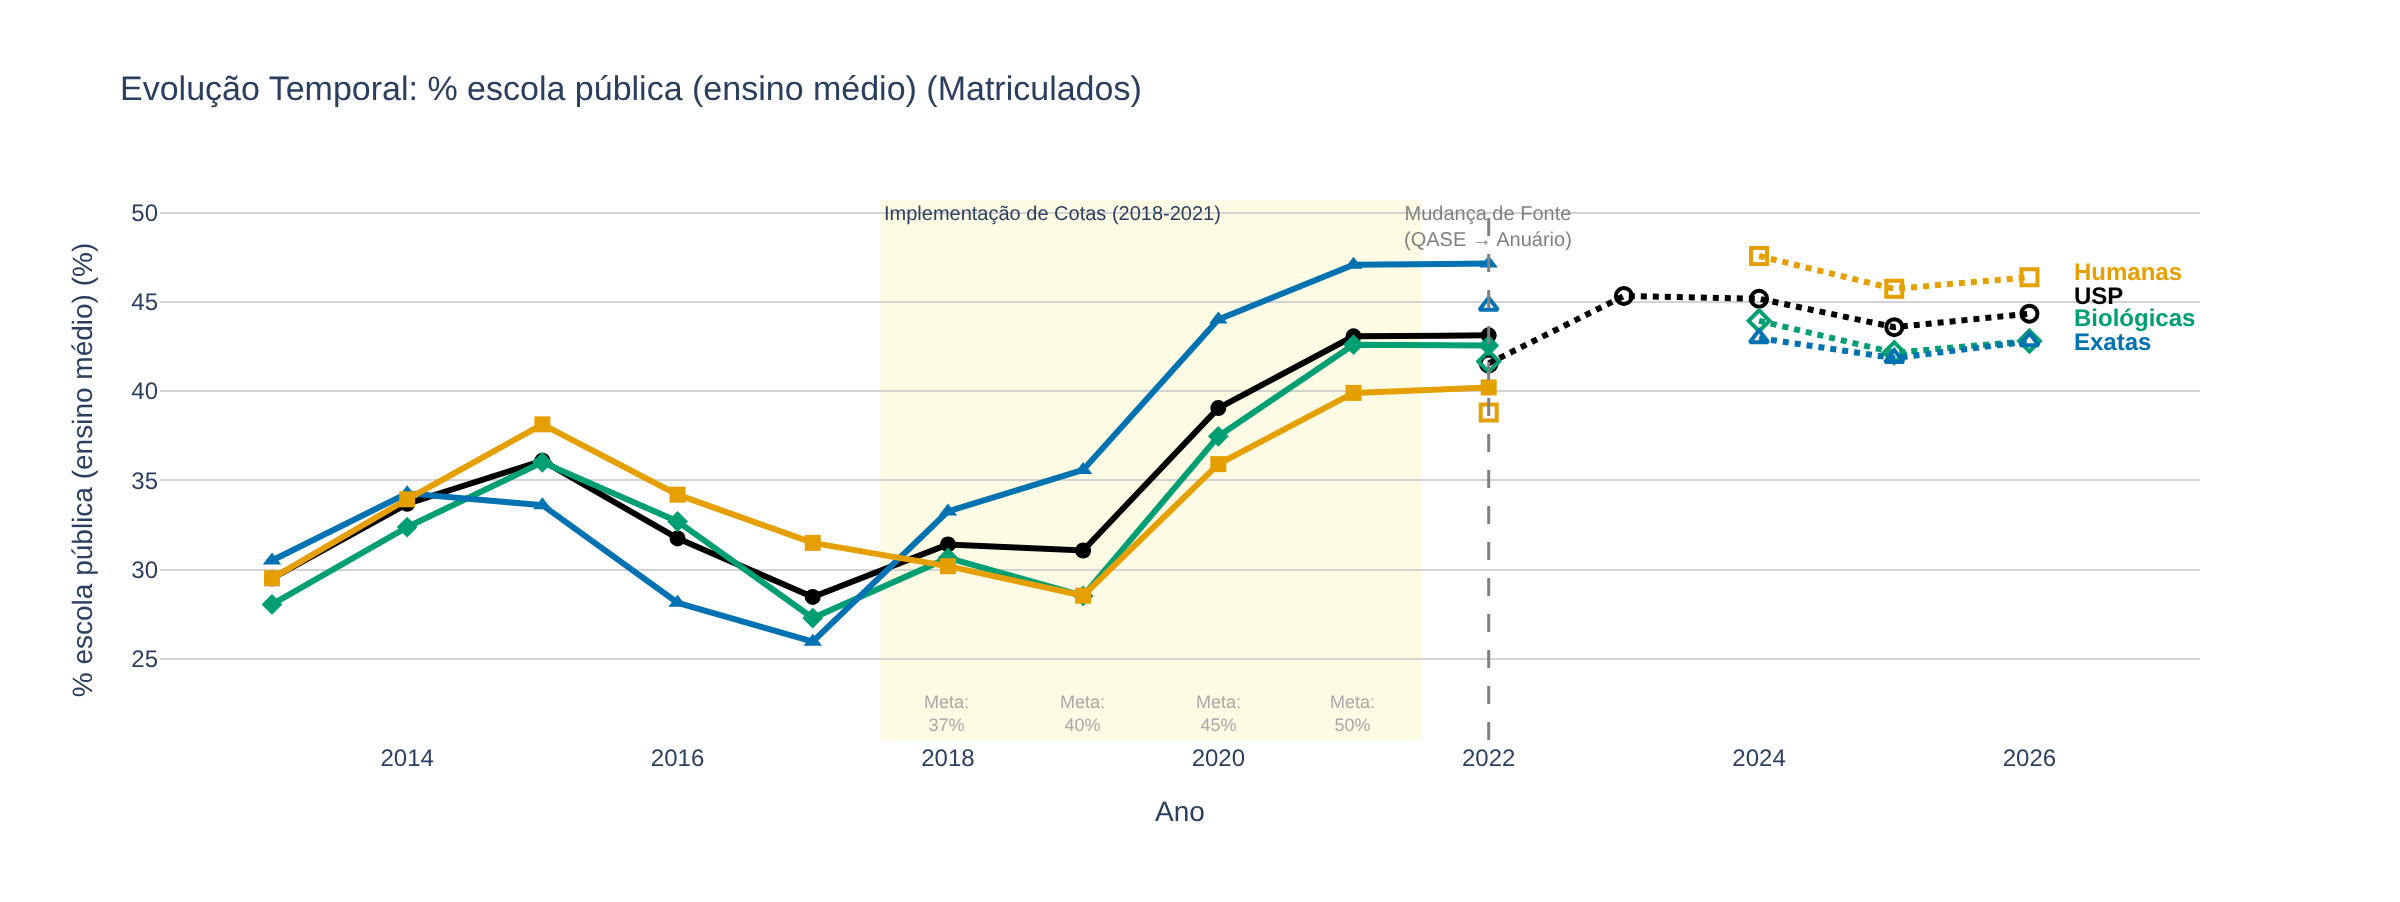
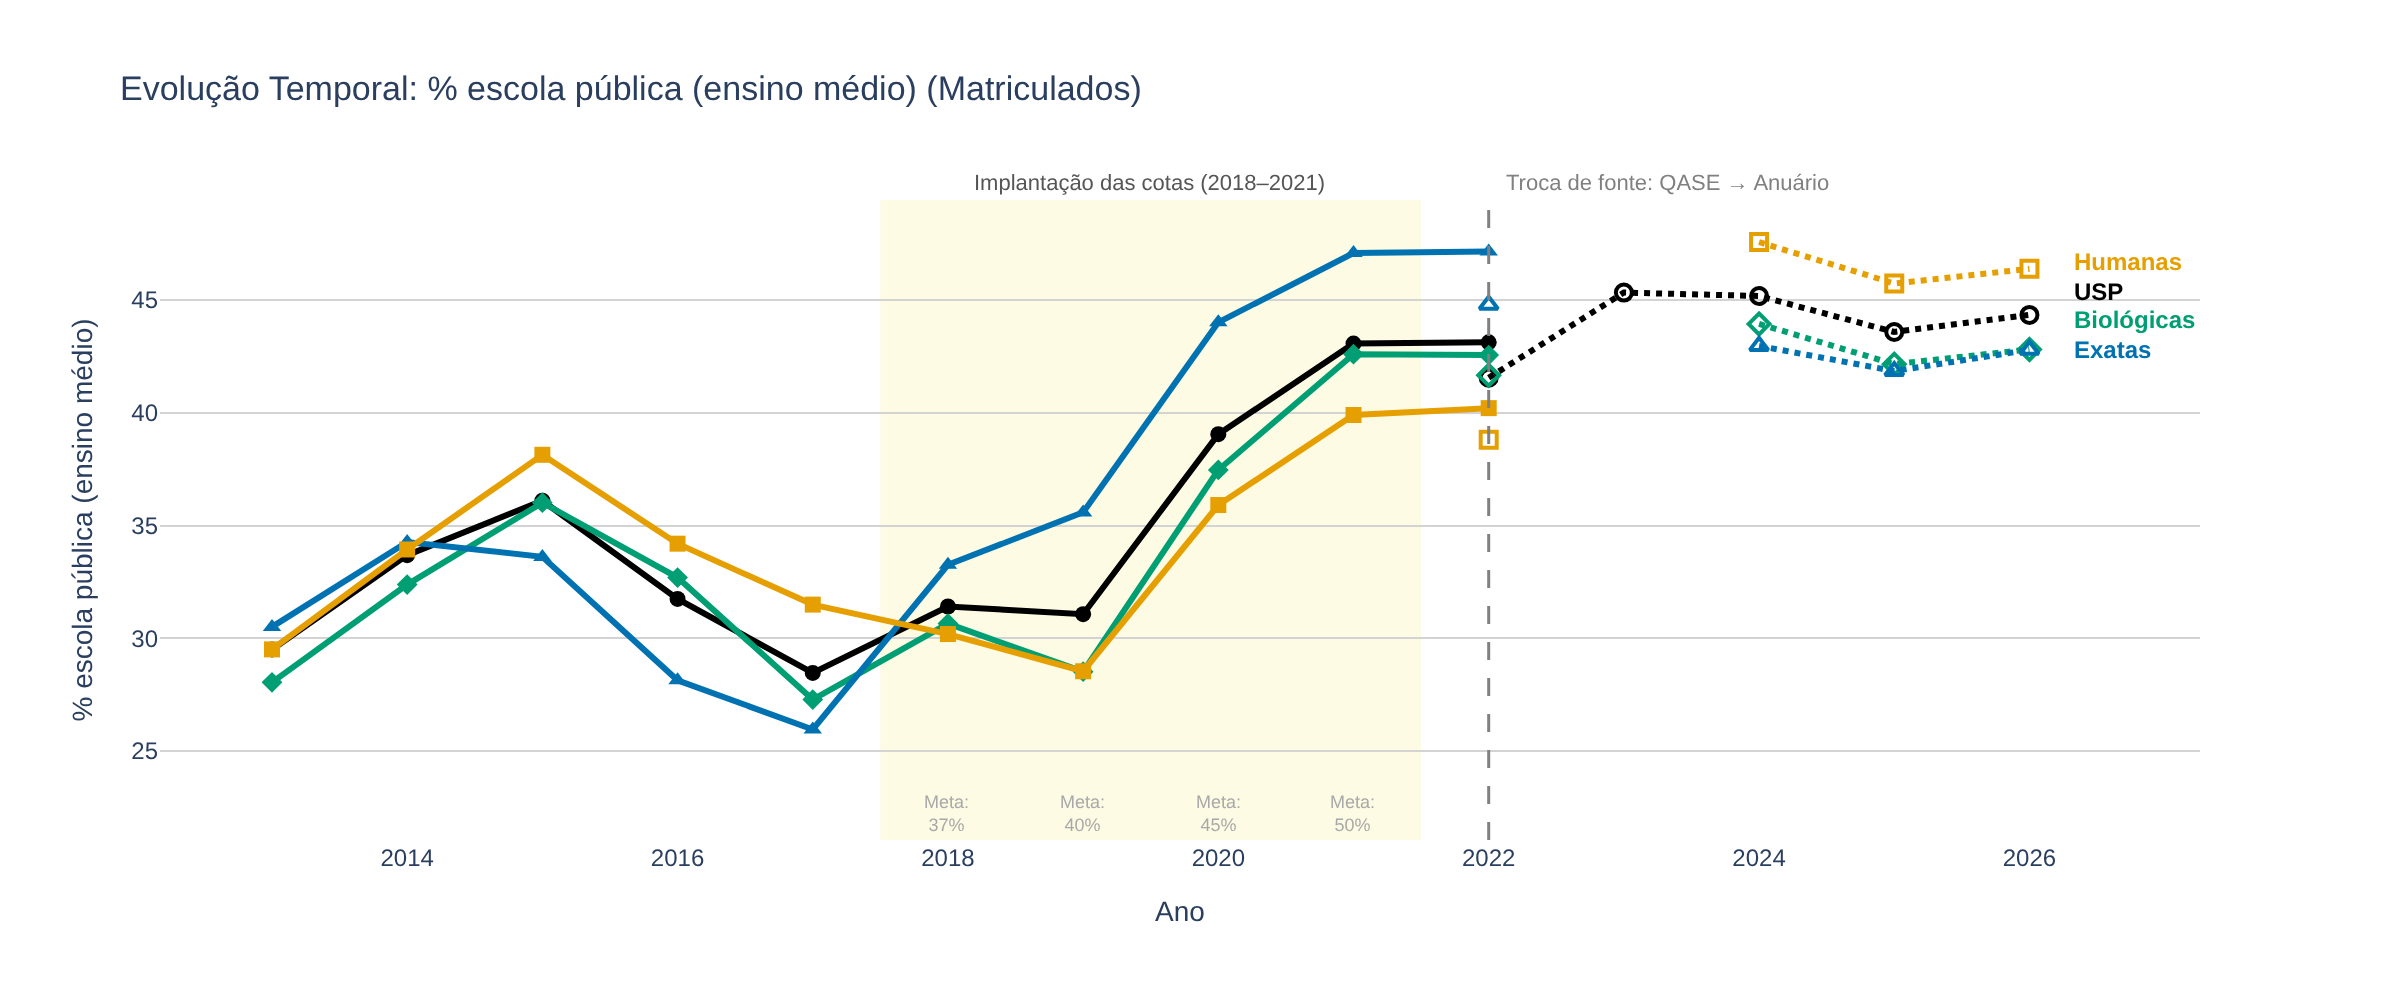
Gráficos mais limpos: rótulos diretos no funil e figuras do relatório sem a página do app
- funil: nome do grupo e variação em pp na ponta de cada linha (sem legenda), USP mais grossa,
  vírgula decimal e aviso quando o indicador não existe no ano escolhido
- série: textos de cotas e troca de fonte acima do gráfico; eixo y sem "(%)" repetido
- paralelas: sem os 0 e 100 repetidos em cada eixo; carreiras destacadas desenhadas por cima
- docs/figuras: figuras geradas direto dos gráficos, com as simulações de daltonismo

Claude-Session: https://claude.ai/code/session_01V5GkZNz1kruYVEJjkWHx1f

diff --git a/app/visoes/funil.py b/app/visoes/funil.py
@@ -21,34 +21,47 @@ def criar_grafico_funil(df, indicador, anos, rotulo=None):
     A inclinação mostra o filtro do vestibular: linha descendo = o grupo perde espaço até a matrícula.
     """
     rotulo = rotulo or indicador
-    fig = make_subplots(rows=1, cols=len(anos), shared_yaxes=True, horizontal_spacing=0.08,
+    fig = make_subplots(rows=1, cols=len(anos), shared_yaxes=True, horizontal_spacing=0.16,
                         subplot_titles=[str(a) for a in anos])
     for col, ano in enumerate(anos, start=1):
         d, fonte = _dados_do_ano(df, ano, indicador)
+        # os títulos dos painéis são as primeiras anotações da figura
+        fig.layout.annotations[col - 1].text = f"{ano} ({'QASE' if fonte == 'qase' else 'Anuário'})"
+        if d.empty:
+            fig.add_annotation(text="Sem dados deste indicador<br>neste ano", showarrow=False,
+                               x=0.5, y=0.5, xref=f"x{col if col > 1 else ''} domain",
+                               yref=f"y{col if col > 1 else ''} domain", font=dict(color="gray", size=13))
+            continue
         etapas = [e for e in ETAPAS if e in set(d["etapa"])]
-        deltas = []
+        rotulos = []
         for grupo, g in d.groupby("grupo"):
             g = g.set_index("etapa").reindex(etapas)
+            # a USP fica por cima e mais grossa; as áreas, mais finas
+            largura = 4 if grupo == "USP" else 2.5
             fig.add_trace(go.Scatter(
                 x=[ETAPAS[e] for e in etapas], y=g[indicador], name=grupo, legendgroup=grupo,
-                showlegend=(col == 1), mode="lines+markers",
-                line=dict(color=CORES_AREA[grupo], width=3),
-                marker=dict(size=10, symbol=SIMBOLOS_AREA[grupo]),
+                showlegend=False, mode="lines+markers",
+                line=dict(color=CORES_AREA[grupo], width=largura),
+                marker=dict(size=9, symbol=SIMBOLOS_AREA[grupo]),
                 customdata=g["respondentes"],
                 hovertemplate=f"{grupo}, %{{x}}: %{{y:.1f}}%<br>%{{customdata}} respondentes<extra></extra>",
             ), row=1, col=col)
-            # variação do inscrito ao matriculado, escrita na ponta da linha (é a resposta da Q2)
+            # rótulo direto na ponta da linha: o nome do grupo e a variação do inscrito ao matriculado
+            # (é a resposta da Q2); substitui a legenda
+            ultimo = g[indicador].dropna()
+            if ultimo.empty:
+                continue
+            texto = f"<b>{grupo}</b>"
             if {"inscritos", "matriculados"} <= set(etapas):
                 delta = g.loc["matriculados", indicador] - g.loc["inscritos", indicador]
-                deltas.append((grupo, g.loc["matriculados", indicador], delta))
-        folga = 0.08 * (d[indicador].max() - d[indicador].min() or 1)
-        for (grupo, _, delta), y in zip(deltas, espalhar([v for _, v, _ in deltas], folga)):
-            fig.add_annotation(x=ETAPAS["matriculados"], y=y, text=f"{delta:+.1f} pp", showarrow=False,
-                               xanchor="left", xshift=10, font=dict(color=CORES_AREA[grupo], size=11),
-                               row=1, col=col)
-        fig.layout.annotations[col - 1].text = f"{ano} ({'QASE' if fonte == 'qase' else 'Anuário'})"
-    fig.update_layout(title=f"Do inscrito ao matriculado: {rotulo}", plot_bgcolor="white",
-                      legend_title_text="", margin=dict(r=60), height=450)
-    fig.update_yaxes(title_text=f"{rotulo} (%)", row=1, col=1)
-    fig.update_yaxes(showgrid=True, gridcolor="LightGray")
+                texto += f" {delta:+.1f} pp".replace(".", ",").replace("-", "−")
+            rotulos.append((grupo, ETAPAS[ultimo.index[-1]], ultimo.iloc[-1], texto))
+        folga = 0.09 * (d[indicador].max() - d[indicador].min() or 1)
+        for (grupo, x, _, texto), y in zip(rotulos, espalhar([v for _, _, v, _ in rotulos], folga)):
+            fig.add_annotation(x=x, y=y, text=texto, showarrow=False, xanchor="left", xshift=12,
+                               font=dict(color=CORES_AREA[grupo], size=12), row=1, col=col)
+    fig.update_layout(title=f"Do inscrito ao matriculado: {rotulo}", plot_bgcolor="white", showlegend=False,
+                      margin=dict(l=70, r=150, t=90, b=50), height=470, separators=",.")
+    fig.update_yaxes(title_text=rotulo, row=1, col=1)
+    fig.update_yaxes(showgrid=True, gridcolor="LightGray", ticksuffix="%")
     return fig

diff --git a/app/visoes/paralelas.py b/app/visoes/paralelas.py
@@ -15,6 +15,12 @@ def criar_grafico_paralelas(df, ano, etapa, min_respondentes=20, destaque="area"
     # eixos: só os indicadores que existem neste ano (pai e mãe somem em 2022)
     eixos = [c for c in INDICADORES if d[c].notna().any()]
     d = d.dropna(subset=eixos)
+    if destaque not in ("area", "icmc"):
+        destaque = int(destaque)
+    if destaque != "area":
+        # as carreiras destacadas vão para o fim, para serem desenhadas por cima das outras
+        alvo = CARREIRAS_ICMC if destaque == "icmc" else {destaque}
+        d = d.assign(_dest=d["cod_carreira"].isin(alvo)).sort_values("_dest")
     d["area_num"] = d["area"].map({a: i for i, a in enumerate(AREAS)})
 
     if destaque == "area":
@@ -24,7 +30,6 @@ def criar_grafico_paralelas(df, ano, etapa, min_respondentes=20, destaque="area"
             [2 / 3, CORES_AREA["Humanas"]], [1, CORES_AREA["Humanas"]]])
         legenda = "cor = área"
     else:
-        alvo = CARREIRAS_ICMC if destaque == "icmc" else {int(destaque)}
         cor = dict(color=d["cod_carreira"].isin(alvo).astype(int), cmin=0, cmax=1,
                    colorscale=[[0, COR_OUTROS], [1, COR_DESTAQUE]])
         nomes = d.loc[d["cod_carreira"].isin(alvo), "carreira"].tolist()
@@ -33,7 +38,9 @@ def criar_grafico_paralelas(df, ano, etapa, min_respondentes=20, destaque="area"
     # o 1º eixo é a área: serve de legenda e permite filtrar uma área arrastando sobre ele
     dimensoes = [dict(label="Área", values=d["area_num"], tickvals=[0, 1, 2], ticktext=AREAS)]
     dimensoes += [dict(label=CURTOS[c] + " (%)", values=d[c], range=[0, 100]) for c in eixos]
-    fig = go.Figure(go.Parcoords(line=cor, dimensions=dimensoes))
+    # rangefont transparente: esconde os "0" e "100" repetidos em cima e embaixo de cada eixo
+    fig = go.Figure(go.Parcoords(line=cor, dimensions=dimensoes,
+                                 rangefont=dict(color="rgba(0,0,0,0)")))
     fig.update_layout(title=f"{len(d)} carreiras em {ano} ({etapa}, mín. {min_respondentes} respondentes)",
                       margin=dict(l=70, r=50, t=90, b=90), height=540, font=dict(size=12))
     # legenda embaixo do gráfico (as coordenadas paralelas do plotly não têm legenda própria)

diff --git a/app/visoes/serie.py b/app/visoes/serie.py
@@ -79,20 +79,22 @@ def criar_grafico_serie(df, indicador, etapa, rotulo=None):
     
     # 2022 está nas duas fontes: os dois pontos aparecem, e a diferença entre eles é de método
     fig.add_vline(x=2022, line_width=1.5, line_dash="dash", line_color="gray")
+    # os textos ficam acima da área do gráfico, para não cobrir as linhas
     fig.add_annotation(
-        x=2022, y=df_agg[indicador].max(),
-        text="Mudança de Fonte<br>(QASE → Anuário)",
-        showarrow=False, xanchor='center', yanchor='bottom',
-        font=dict(size=10, color="gray")
+        x=2022.1, y=1, yref="paper", text="Troca de fonte: QASE → Anuário",
+        showarrow=False, xanchor='left', yanchor='bottom',
+        font=dict(size=11, color="gray")
     )
 
     if indicador in ['pct_escola_publica', 'pct_PPI']:
         cotas_info = {2018: '37%', 2019: '40%', 2020: '45%', 2021: '50%'}
         fig.add_vrect(
             x0=2017.5, x1=2021.5,
-            fillcolor="#F0E442", opacity=0.15, layer="below", line_width=0,
-            annotation_text="Implementação de Cotas (2018-2021)",
-            annotation_position="top left", annotation_font_size=10
+            fillcolor="#F0E442", opacity=0.15, layer="below", line_width=0
+        )
+        fig.add_annotation(
+            x=2019.5, y=1, yref="paper", text="Implantação das cotas (2018–2021)",
+            showarrow=False, xanchor='center', yanchor='bottom', font=dict(size=11, color="#555555")
         )
         for ano, pct in cotas_info.items():
             fig.add_annotation(
@@ -103,8 +105,8 @@ def criar_grafico_serie(df, indicador, etapa, rotulo=None):
 
     fig.update_layout(
         title=f"Evolução Temporal: {rotulo} ({etapa.title()})",
-        xaxis_title="Ano", yaxis_title=f"{rotulo} (%)",
-        margin=dict(r=100), plot_bgcolor='white', hovermode="x unified"
+        xaxis_title="Ano", yaxis_title=rotulo if "%" in rotulo else f"{rotulo} (%)",
+        margin=dict(r=100), plot_bgcolor='white', hovermode="x unified", separators=",."
     )
     
     fig.update_yaxes(showgrid=True, gridwidth=1, gridcolor='LightGray')
